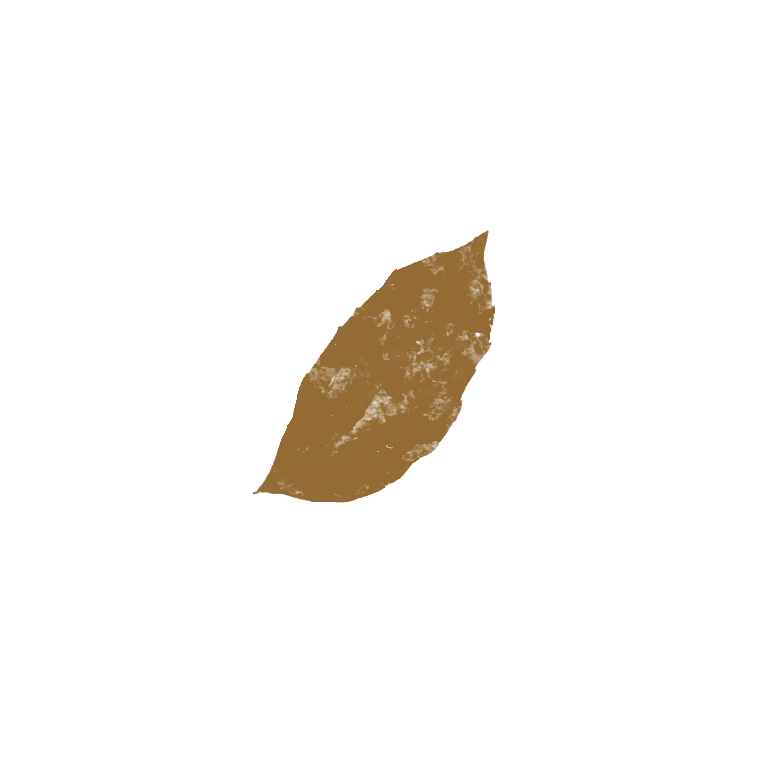
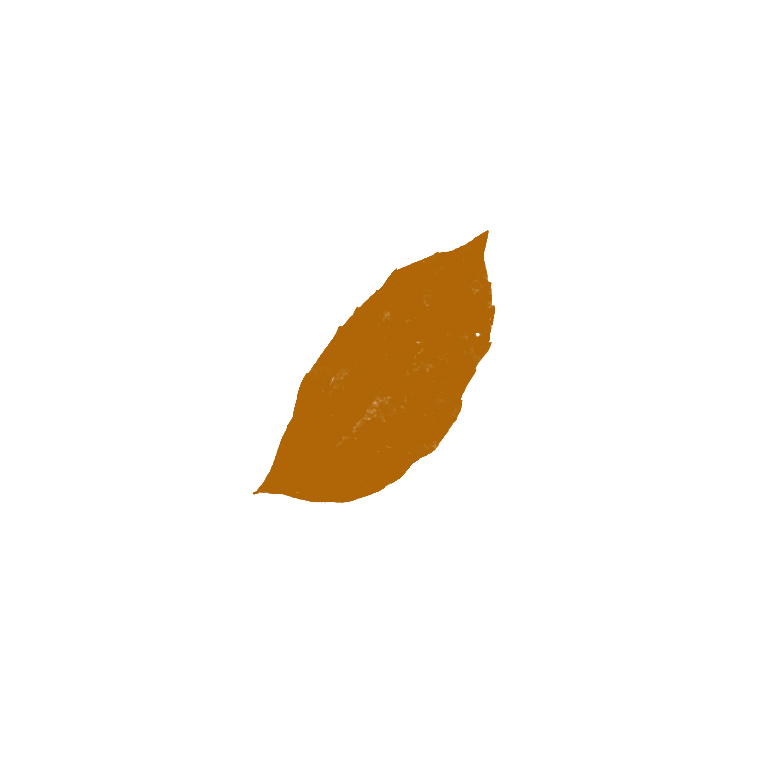
이미지 변경

Changed region(s): [[0.3125, 0.2812, 0.6562, 0.6562]]

diff --git a/sketch/main.js b/sketch/main.js
@@ -13,31 +13,22 @@ const observer = new IntersectionObserver(
   }
 );
 observer.observe(image);
-//////////////////
-
-// const container = document.querySelector('.image-container');
 const leaves = document.querySelectorAll('.leaf');
 
-// 이미지 로딩 후 나뭇잎 애니메이션 설정
 window.addEventListener('load', () => {
   leaves.forEach((leaf, index) => {
-    // 컨테이너 크기 측정
     const maxX = container.clientWidth - 10; // 여백 고려
     const maxY = container.clientHeight - 10;
 
-    // 랜덤한 위치 계산
     const randomX = Math.random() * maxX;
     const randomY = -Math.random() * 100; // 약간 위에서 시작하도록 조정
 
-    // 나뭇잎 위치 설정
     leaf.style.left = `${randomX}px`;
     leaf.style.top = `${randomY}px`;
 
-    // 애니메이션 시간과 딜레이 랜덤 설정
     const duration = Math.random() * 2 + 2; // 4~6초 사이의 애니메이션
-    const delay = Math.random() * 3; // 0~5초 사이의 딜레이
+    const delay = Math.random() * 1; // 0~5초 사이의 딜레이
 
-    // 나뭇잎 애니메이션 적용
     leaf.style.animationDuration = `${duration}s`;
     leaf.style.animationDelay = `${delay}s`;
   });
@@ -57,12 +48,10 @@ function randomizeSparklePosition(sparkle) {
   sparkle.style.top = `${randomY}px`;
 }
 
-// 이미지 로딩 후 실행
 window.addEventListener('load', () => {
   sparkles.forEach((sparkle) => {
     randomizeSparklePosition(sparkle);
 
-    // 2~4초마다 위치 변경
     const interval = Math.random() * 1000 + 1000;
     setInterval(() => {
       randomizeSparklePosition(sparkle);
@@ -78,27 +67,21 @@ function createBubble() {
   const bubble = document.createElement('img');
   bubble.classList.add('bubble');
 
-  // 랜덤한 이미지 선택 (세 개의 물방울 이미지 중 하나)
   const randomBubble = `./asset/bubble${Math.floor(Math.random() * 3) + 1}.png`;
   bubble.src = randomBubble;
 
-  // 랜덤한 위치 설정
   const randomX = Math.random() * 100; // 0~100% 너비
   const randomDelay = Math.random() * 2; // 0~2초 랜덤 딜레이
 
   bubble.style.left = `${randomX}%`;
   bubble.style.animationDelay = `${randomDelay}s`;
-
-  // 물방울을 컨테이너에 추가
   waterBubbles.appendChild(bubble);
 
-  // 물방울 제거 (애니메이션 끝나면 삭제)
   setTimeout(() => {
     bubble.remove();
   }, 5000); // 5초 후에 제거
 }
 
-// 물방울을 일정 시간마다 생성
 setInterval(createBubble, 500);
 document.addEventListener('DOMContentLoaded', () => {
   const overlay = document.querySelector('.overlay-image');

diff --git a/style/style.scss b/style/style.scss
@@ -74,10 +74,10 @@ body {
 }
 .leaf {
   position: absolute;
-  width: 10vw;
+  width: 13vw;
   animation: floatLeaf 5s linear infinite;
   top: -50px;
-  opacity: 0.8;
+  // opacity: 0.8;
 }
 @keyframes floatLeaf {
   0% {
@@ -140,7 +140,7 @@ body {
 
 .bubble {
   position: absolute;
-  width: 5vw;
+  width: 8vw;
   height: auto;
   animation: bubbleUp 4s linear forwards;
   // opacity: 0.7;

diff --git a/style/style.css b/style/style.css
@@ -34,10 +34,9 @@ body {
 
 .leaf {
   position: absolute;
-  width: 10vw;
+  width: 13vw;
   animation: floatLeaf 5s linear infinite;
   top: -50px;
-  opacity: 0.8;
 }
 
 @keyframes floatLeaf {
@@ -97,7 +96,7 @@ body {
 
 .bubble {
   position: absolute;
-  width: 5vw;
+  width: 8vw;
   height: auto;
   animation: bubbleUp 4s linear forwards;
 }
